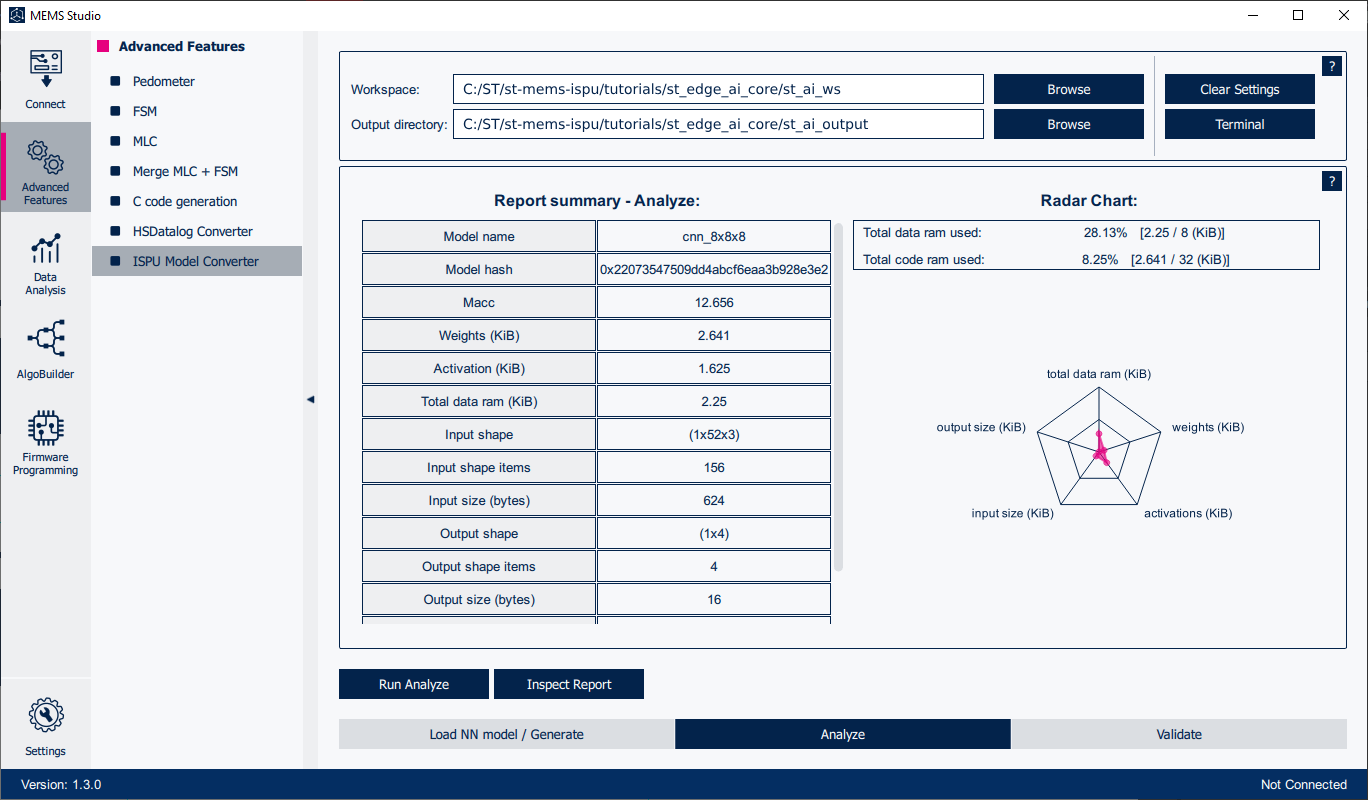
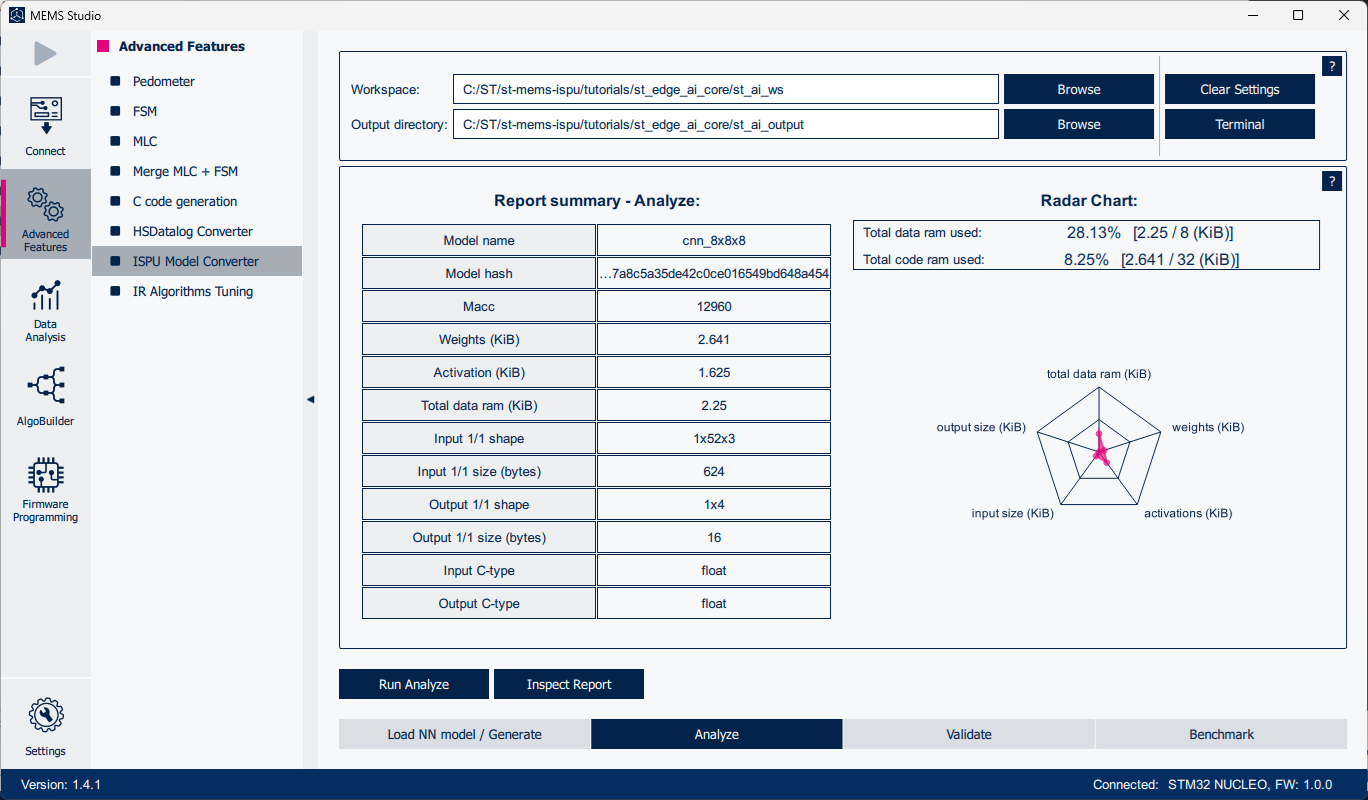
update stedgeai core tutorial to use iks4a1 expansion board

diff --git a/tutorials/st_edge_ai_core/README.md b/tutorials/st_edge_ai_core/README.md
@@ -14,13 +14,9 @@ For reproducing all the steps in this tutorial project, the following hardware a
 
     ![NUCLEO-F401RE](images/nucleo-f401re.png)
 
-- [X-NUCLEO-IKS01A3](https://www.st.com/en/ecosystems/x-nucleo-iks01a3.html): motion MEMS and environmental sensors expansion board, which must be connected to the NUCLEO-F401RE through the Arduino UNO V3 connector
+- [X-NUCLEO-IKS4A1](https://www.st.com/en/ecosystems/x-nucleo-iks4a1.html): motion MEMS and environmental sensors expansion board, which must be connected to the NUCLEO-F401RE through the Arduino UNO V3 connector
 
-    ![X-NUCLEO-IKS01A3](images/x-nucleo-iks01a3.png)
-
-- [STEVAL-MKI229AA](https://www.st.com/en/evaluation-tools/steval-mki229a.html): adapter board for the LSM6DSO16IS sensor, which embeds a 3-axis accelerometer, a 3-axis gyroscope, and the ISPU (intelligent sensor processing unit), capable of running AI models, which must be plugged into the DIL24 socket of the X-NUCLEO-IKS01A3 expansion board
-
-    ![STEVAL-MKI229AA](images/steval-mki229a.png)
+    ![X-NUCLEO-IKS4A1](images/x-nucleo-iks4a1.png)
 
 ### Software
 
@@ -35,27 +31,25 @@ For reproducing all the steps in this tutorial project, the following hardware a
 
 For the first step of this tutorial, the Nucleo board (with the expansion board and adapter board mounted on top) and MEMS Studio can be used to collect multiple data logs for each of the activities.
 
-1. Mount the X-NUCLEO-IKS01A3 expansion board on top of the NUCLEO-F401RE board and insert the STEVAL-MKI229AA sensor adapter into the DIL24 socket on top of the expansion board.
+1. Mount the X-NUCLEO-IKS4A1 expansion board on top of the NUCLEO-F401RE board and connect it to a USB port of your computer. Do not plug any sensor adapter board in the DIL24 socket if it hosts a sensor with the same I2C address as the LSM6DSO16IS sensor already available on the expansion board, as a clash of addresses does not allow the firmware to work correctly.
 
     ![Nucleo setup](images/nucleo_setup.png)
 
-2. Connect the Nucleo board to a USB port of your computer.
+2. Flash the [LSM6DSO16IS_DataLogExtended.bin](https://github.com/STMicroelectronics/x-cube-ispu/blob/main/Projects/NUCLEO-F401RE/Examples/IKS4A1/LSM6DSO16IS_DataLogExtended/Binary/LSM6DSO16IS_DataLogExtended.bin) firmware from the X-CUBE-ISPU package to enable communication between MEMS Studio and the sensor (this can be achieved simply by copying the *.bin* file to the board mass storage).
 
-3. Flash the [LSM6DSO16IS_DataLogExtended.bin](https://github.com/STMicroelectronics/x-cube-ispu/blob/main/Projects/NUCLEO-F401RE/Examples/IKS01A3/LSM6DSO16IS_DataLogExtended/Binary/LSM6DSO16IS_DataLogExtended.bin) firmware from the X-CUBE-ISPU package to enable communication between MEMS Studio and the sensor (this can be achieved simply by copying the *.bin* file to the board mass storage)
-
-4. Open MEMS Studio, under *Connect*, select *Serial* as *Communication type* and the serial port the board is connected to as *Communication port*, and then press *Connect*. Then, if *LSM6DSO16IS (DIL24)* is correctly detected, press *Select*.
+3. Open MEMS Studio, under *Connect*, select *Serial* as *Communication type* and the serial port the board is connected to as *Communication port*, and then press *Connect*. Then, if not already showing, select *LSM6DSO16IS* under the *Accelerometer sensor* dropdown menu and press *Select*.
 
     ![MEMS Studio connect](images/mems-studio_connect.png)
 
-5. Go to the `Sensor Evaluation` section and select the `Quick Setup` page to configure the sensor (*Accelerometer Full Scale*: 16 g; *Accelerometer Output Data Rate*: 26 Hz), then press the `▶` button in the top left corner to start streaming data from the sensor.
+4. Go to the `Sensor Evaluation` section and select the `Quick Setup` page to configure the sensor (*Accelerometer Full Scale*: 16 g; *Accelerometer Output Data Rate*: 26 Hz), then press the `▶` button in the top left corner to start streaming data from the sensor.
 
     ![MEMS Studio setup](images/mems-studio_setup.png)
 
-6. Go to the `Save to File` page, select a save path for the CSV log in the `data/<id>_<activity>` folder (where <*activity*> corresponds to the desired activity name and <*id*> corresponds to the numeric identifier of the activity used for its classification), select only *Accelerometer* in both *Data* and *Datalog period source* sections.
+5. Go to the `Save to File` page, select a save path for the CSV log in the `data/<id>_<activity>` folder (where <*activity*> corresponds to the desired activity name and <*id*> corresponds to the numeric identifier of the activity used for its classification), select only *Accelerometer* in both *Data* and *Datalog period source* sections.
 
     ![MEMS Studio datalog](images/mems-studio_datalog.png)
 
-7. Use the `Start` / `Stop` buttons to start and stop data collection making sure to acquire data in the most realistic setting with only one activity type per log.
+6. Use the `Start` / `Stop` buttons to start and stop data collection making sure to acquire data in the most realistic setting with only one activity type per log.
 
 ### PAMAP2 dataset
 
@@ -252,36 +246,28 @@ To evaluate model performance and the correctness of the conversion performed by
 
 The command offers various functionalities but, in its basic form, by inputting the model with no extra arguments, the tool will generate random data to be used as input to both the original and converted model to check that predictions coincide; alternatively, the user can provide the input / output data directly to ensure more control over the frequencies of the predicted classes.
 
-Another useful option is the ability to perform the validation on target to check the correctness of the converted model on the final target (LSM6DSO16IS) and get its execution time. Before doing so, two preliminary steps are required:
+Another useful option is the ability to perform the validation on target to check the correctness of the converted model on the final target (LSM6DSO16IS) and get its execution time. Before doing so, the generated C-model must be copied inside the [template_stedgeai_validate](https://github.com/STMicroelectronics/ispu-examples/tree/master/ism330is_lsm6dso16is/template_stedgeai_validate) project that must be compiled to create a sensor configuration (.ucf) file:
 
-- The Nucleo board setup, previously used for data collection, needs to be flashed using the [nucleo_f401re_ispu_stedgeai_validate.bin](../../host_firmware/nucleo_ispu_stedgeai_validate/binary/nucleo_f401re_ispu_stedgeai_validate.bin)
+1. First, copy the `template_stedgeai_validate` project available in the examples folder of this repository:
 
-    Note: Make sure the X-NUCLEO-IKS01A3 jumper JP6 is connecting pins 13-14 together for correct functioning of the validation.
+    ```powershell
+    cp -r ../../examples/ism330is_lsm6dso16is/template_stedgeai_validate/ispu ispu_validation
+    ```
 
-    ![X-NUCLEO-IKS01A3 JP6](images/x-nucleo-iks01a3_jp6.png)
+2. Then copy the content of `generated` inside the template project:
 
-- The generated C-model must be copied inside the [template_stedgeai_validate](https://github.com/STMicroelectronics/ispu-examples/tree/master/ism330is_lsm6dso16is/template_stedgeai_validate) project that must be compiled to create a sensor configuration (.ucf) file:
+    ```powershell
+    cp -r generated/* ispu_validation
+    ```
 
-    1. First, copy the `template_stedgeai_validate` project available in the examples folder of this repository:
+3. Lastly, compile the project using `make` to generate the sensor configuration (.ucf) file and copy it to the `output` folder:
 
-        ```powershell
-        cp -r ../../examples/ism330is_lsm6dso16is/template_stedgeai_validate/ispu ispu_validation
-        ```
+    ```powershell
+    make -C ispu_validation/make
+    cp ispu_validation/make/bin/ispu.ucf output/har_validate.ucf
+    ```
 
-    2. Then copy the content of `generated` inside the template project:
-
-        ```powershell
-        cp -r generated/* ispu_validation
-        ```
-
-    3. Lastly, compile the project using `make` to generate the sensor configuration (.ucf) file and copy it to the `output` folder:
-
-        ```powershell
-        make -C ispu_validation/make
-        cp ispu_validation/make/bin/ispu.ucf output/har_validate.ucf
-        ```
-
-        Note: Make sure you have the ISPU-Toolchain correctly set up on your system to be able to compile the code for the ISPU architecture.
+    Note: Make sure you have the ISPU-Toolchain correctly set up on your system to be able to compile the code for the ISPU architecture.
 
 Finally, having completed all the previous steps, it is possible to perform the validation on target by connecting the Nucleo board to a USB port of the PC, and running the `validate` command specifying the model (.h5), the sensor configuration (.ucf), and the validation data (.npz) as arguments:
 
@@ -326,21 +312,29 @@ In this case, the converted model performance is practically the same as the ori
 
 To accomodate users that prefer to use a graphical interface over the command line, ST Edge AI Core has been integrated in MEMS Studio.
 
-After opening MEMS Studio, go to the `Advanced Features` section and select the `ISPU Model Converter` page. In the lower portion of the page are located three buttons that open up subpages corresponding to ST Edge AI Core's main commands:
+After opening MEMS Studio, go to the `Advanced Features` section and select the `ISPU Model Converter` page. In the lower portion of the page are located four buttons that open up subpages corresponding to ST Edge AI Core's main functionalities:
 
-- Load NN model / Generate:
+- Load NN model / Generate: generate a C library optimized for the ISPU architecture from the trained model
 
-    ![MEMS Studio datalog](images/mems-studio_stedgeai_generate.png)
+    ![MEMS Studio generate](images/mems-studio_stedgeai_generate.png)
 
-- Analyze:
+- Analyze: obtain useful information regarding the model's memory footprint and the number of operations
 
-    ![MEMS Studio datalog](images/mems-studio_stedgeai_analyze.png)
+    ![MEMS Studio analyze](images/mems-studio_stedgeai_analyze.png)
 
-- Validate:
+- Validate: evaluate model performance and the correctness of the conversion performed by ST Edge AI Core
 
-    ![MEMS Studio datalog](images/mems-studio_stedgeai_validate.png)
+    - On host: run the validation on the user's computer
 
-Note: Validation on target functionality is not yet supported by MEMS Studio and is only available through CLI usage at the moment.
+        ![MEMS Studio validate on host](images/mems-studio_stedgeai_validate_on_host.png)
+
+    - On target: run the validation directly on the ISPU (note: requires the Nucleo board to be flashed with the [nucleo_f401re_ispu_stedgeai_validate.bin](../../host_firmware/nucleo_ispu_stedgeai_validate/binary/nucleo_f401re_ispu_stedgeai_validate.bin") firmware)
+
+        ![MEMS Studio validate on target](images/mems-studio_stedgeai_validate_on_target.png)
+
+- Benchmark: assess all benchmark results (original model, c-model, and X-cross) from both host and target validations
+
+    ![MEMS Studio benchmark](images/mems-studio_stedgeai_benchmark.png)
 
 ## ISPU firmware integration
 
@@ -545,7 +539,7 @@ A pre-made output format file is already available in the `output` folder.
 
 Finally, MEMS Studio can be used to upload and test the sensor configuration (.ucf) containing the ISPU program:
 
-1. Make sure the Nucleo board has been flashed using the [LSM6DSO16IS_DataLogExtended.bin](https://github.com/STMicroelectronics/x-cube-ispu/blob/main/Projects/NUCLEO-F401RE/Examples/IKS01A3/LSM6DSO16IS_DataLogExtended/Binary/LSM6DSO16IS_DataLogExtended.bin) firmware (note: this is the same firmware used before for data logging)
+1. Make sure the Nucleo board has been flashed using the [LSM6DSO16IS_DataLogExtended.bin](https://github.com/STMicroelectronics/x-cube-ispu/blob/main/Projects/NUCLEO-F401RE/Examples/IKS4A1/LSM6DSO16IS_DataLogExtended/Binary/LSM6DSO16IS_DataLogExtended.bin) firmware (note: this is the same firmware used before for data logging)
 
 2. Connect the board, go to the `Sensor Evaluation` section, and then select the `Quick Setup` page
 
